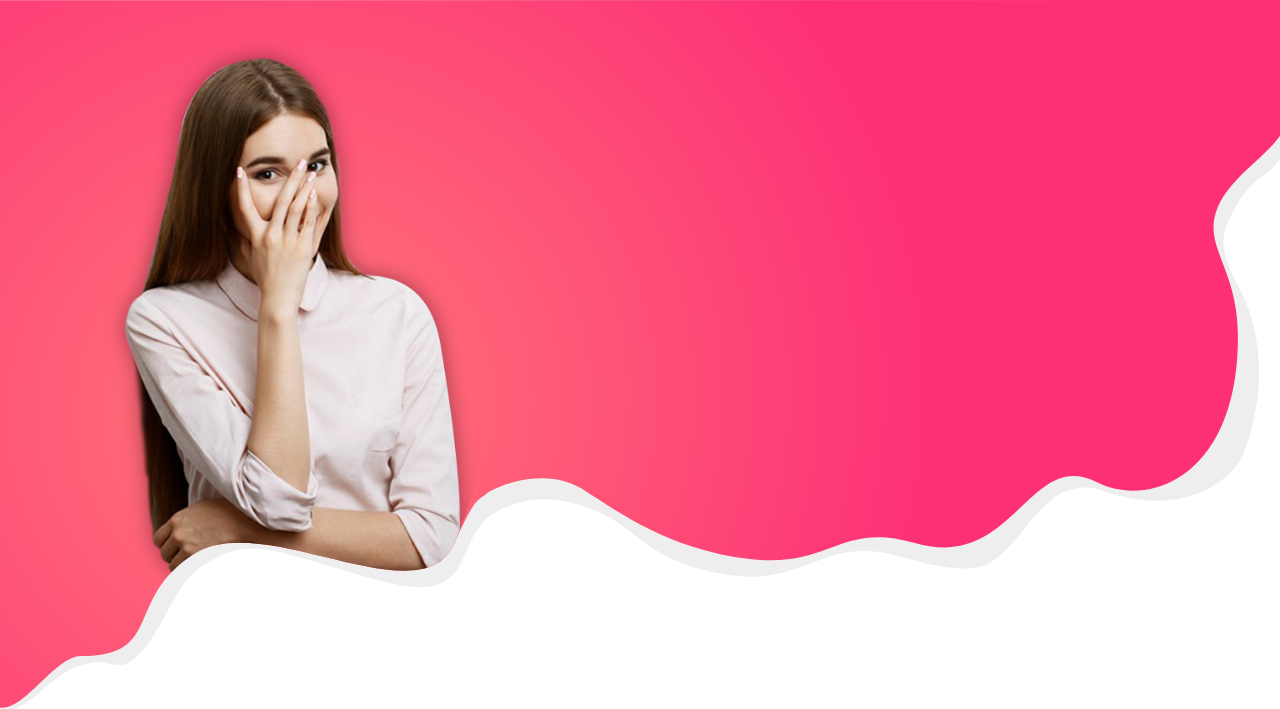
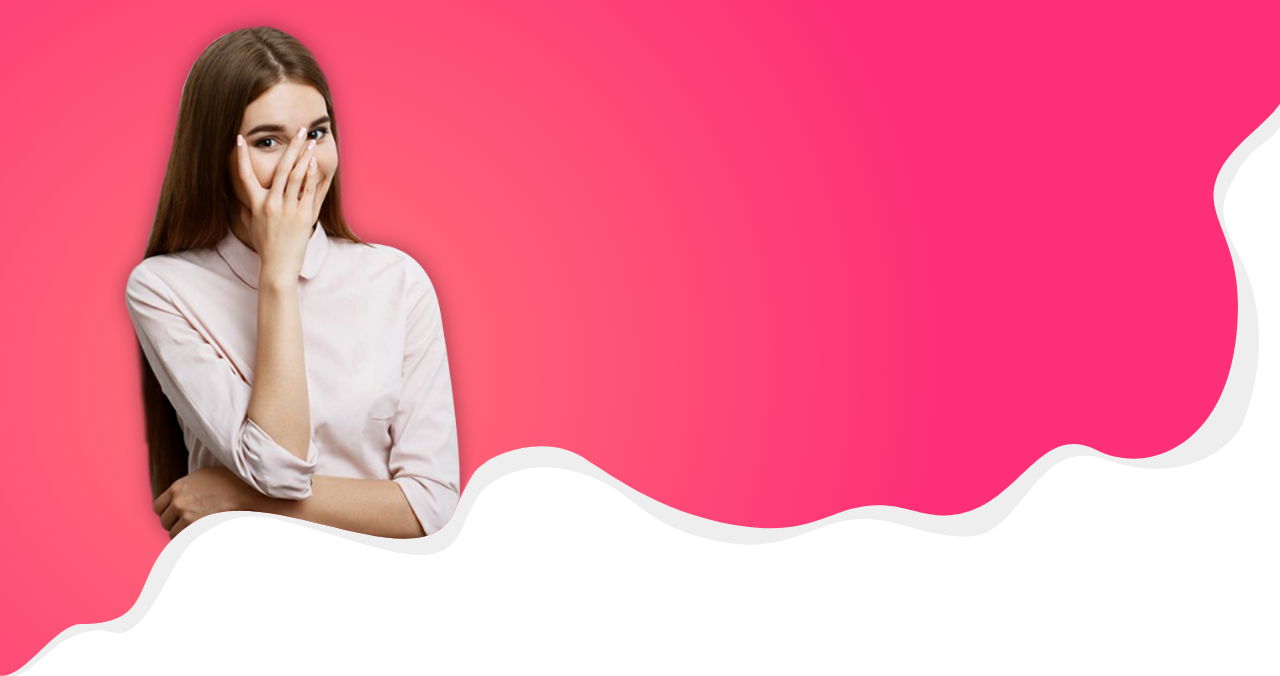
Jodaei

diff --git a/index.html b/index.html
@@ -534,27 +534,87 @@
             <div class="row">
                 <div class="col-md-8">
                     <div class="row">
-                        <div class="col-md-6">
-                            <div id="footer-button">
-                                <input type="text" placeholder="محصول خود را وارد کنید...">
-                                <button type="submit">
-                                    جستوجو
-                                </button>
-                            </div>
-
-                            <div id="soical">
-                                <div class="d-flex justify-content-center">
-
+                        <div class="col-md-6 text-center">
+                            <div class="d-flex flex-column justify-content-between">
+                                <div class="p-2">
+                                    <div id="footer-button">
+                                        <input type="text" id="ftp" placeholder="محصول خود را وارد کنید...">
+                                        <button type="submit">
+                                            جستوجو
+                                        </button>
+                                    </div>
+                                </div>
+                                <div class="p-2">
+                                    <div id="soical">
+                                        <div class="d-flex justify-content-center">
+                                            <div class="p-2">
+                                                <a>
+                                                    <img src="img/Facebook.png" alt="">
+                                                </a>
+                                            </div>
+                                            <div class="p-2">
+                                                <a>
+                                                    <img src="img/Twitter.png" alt="">
+                                                </a>
+                                            </div>
+                                            <div class="p-2">
+                                                <a>
+                                                    <img src="img/Instagram.png" alt="">
+                                                </a>
+                                            </div>
+                                        </div>
+                                    </div>
+                                </div>
+                                <div class="p-2">
+                                    <div id="nav">
+                                        <div class="d-flex">
+                                            <div class="p-2 flex-fill">
+                                                <a href="#">محصولات ما</a>
+                                            </div>
+                                            <div class="p-2 flex-fill">
+                                                <a href="#">اکادمی</a>
+                                            </div>
+                                            <div class="p-2 flex-fill">
+                                                <a href="#">تماس با ما</a>
+                                            </div>
+                                            <div class="p-2 flex-fill">
+                                                <a href="#">درباره ما</a>
+                                            </div>
+                                        </div>
+                                    </div>
                                 </div>
                             </div>
-                            <div id="nav">
-
+                        </div>
+                        <div class="col-md-6">
+                            <h4>لینک های مهم</h4>
+                            <div class="d-flex flex-column">
+                                <div class="p-2">
+                                    <a href="#">لورم ایپسوم متن ساختگی با تولید سادگی </a>
+                                </div>
+                                <div class="p-2">
+                                    <a href="#">لورم ایپسوم متن </a>
+                                </div>
+                                <div class="p-2">
+                                    <a href="#">لورم ایپسوم متن ساختگی با تولید</a>
+                                </div>
+                                <div class="p-2">
+                                    <a href="#">ورم ایپسوم متن ساختگی با تولید سادگی نامفهوم</a>
+                                </div>
+                                <div class="p-2">
+                                    <a href="#">لورم ایپسوم متن ساختگی</a>
+                                </div>
+                                <div class="p-2">
+                                    <a href="#">لورم ایپسوم متن ساختگی با تولید</a>
+                                </div>
                             </div>
                         </div>
-                        <div class="col-md-6"></div>
                     </div>
                 </div>
-                <div class="col-md-4"></div>
+                <div class="col-md-4">
+                    <div id="enama">
+                        <img src="img/el0ncxwwdydz.png" alt="">
+                    </div>
+                </div>
             </div>
         </div>
     </footer>

diff --git a/css/style.css b/css/style.css
@@ -29,7 +29,7 @@ a,
 
 nav {
   background-color: var(--second);
-  /* height: 10vh; */
+  height: 10vh;
 }
 
 nav #icon {
@@ -61,9 +61,9 @@ nav #link-ex {
 
 header {
   background: url("../img/back1.png");
-  height: 89vh;
+  /* height: 89vh; */
   background-repeat: no-repeat;
-  background-size: cover;
+  background-size: contain;
 }
 
 .header {
@@ -245,12 +245,22 @@ main h1 {
 }
 
 .product .row {
-  padding-top: 30px;
+  padding: 15px 0;
 }
 
 footer {
   background-color: var(--main);
   height: 40vh;
+  color: white;
+}
+
+footer a {
+  color: white;
+}
+
+footer a:hover {
+  color: white;
+  text-decoration: none;
 }
 
 #footer-button {
@@ -275,4 +285,23 @@ footer {
   outline: none;
   height: 3vw;
   width: 8vw;
+}
+
+#enama {
+  /* width: 100%;
+  height: 100%; */
+  display: table-cell;
+  text-align: center;
+  vertical-align: middle;
+}
+
+#ftp::placeholder {
+  color: white;
+}
+#ftp:-ms-input-placeholder {
+  color: white;
+}
+
+#ftp::-ms-input-placeholder {
+  color: white;
 }
